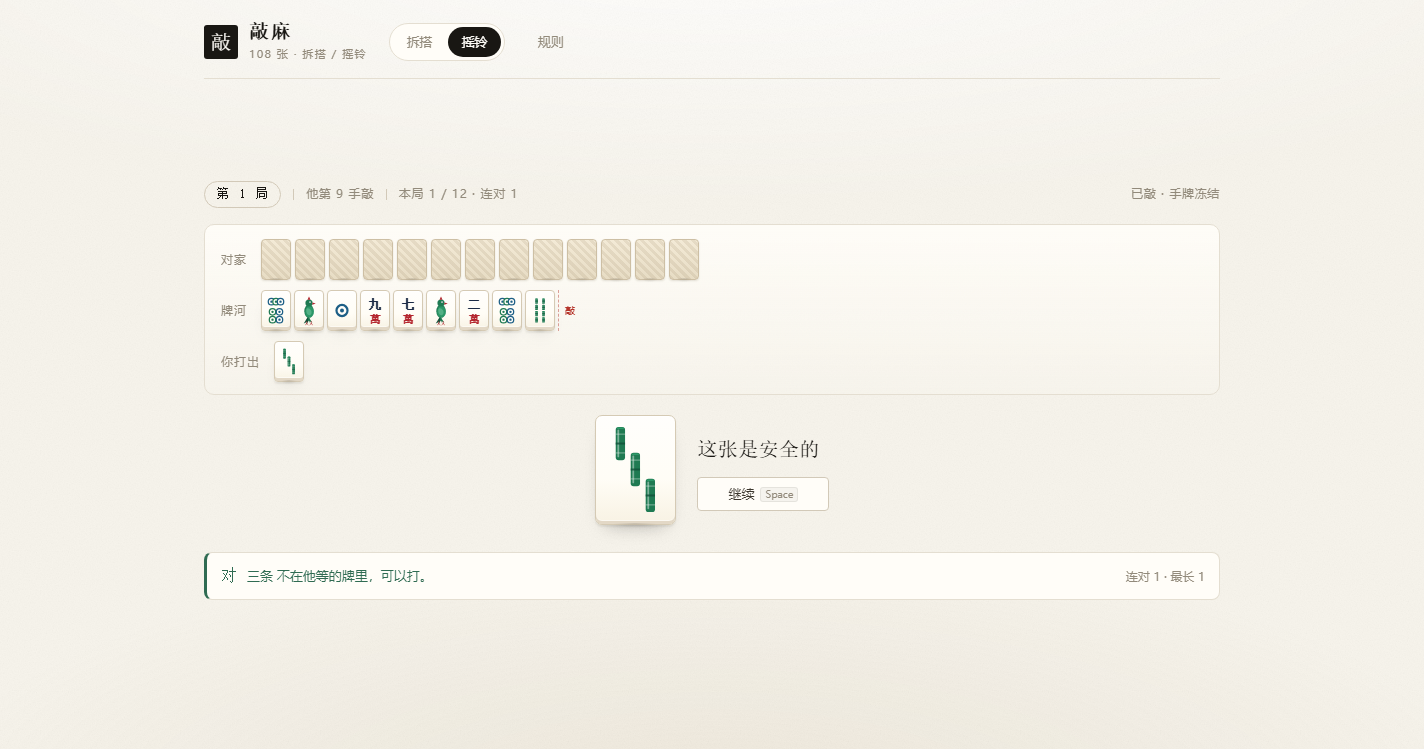
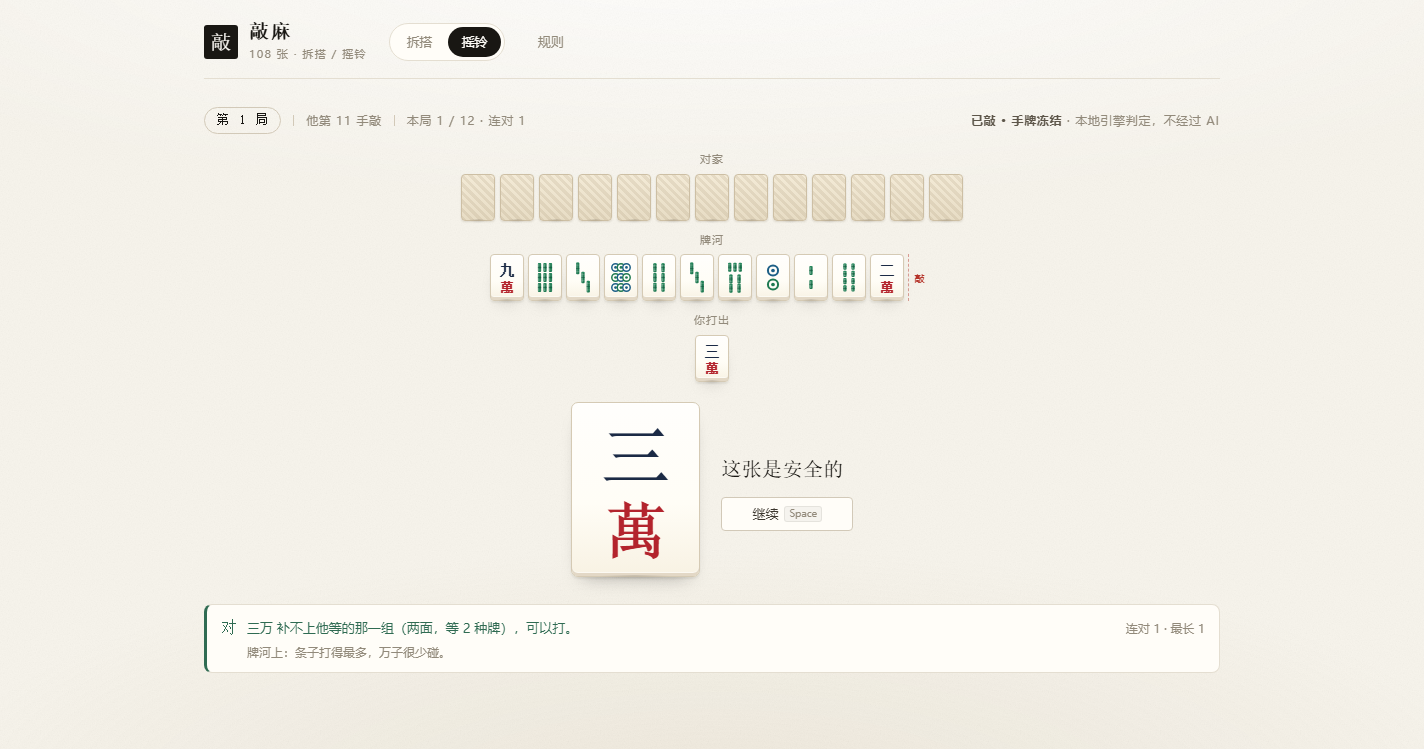
摇铃：每题给出可读的理由（牌河线索 + 他那一组的形），去掉对家面板底色，牌与出张加大居中

diff --git a/public/readmode.js b/public/readmode.js
@@ -24,6 +24,35 @@ function counts(arr) {
   return c;
 }
 
+const SUITS = ['万子', '筒子', '条子'];
+const suitOf = (t) => Math.floor(t / 9);
+
+/**
+ * 从「他的牌河」读线索。hard = 能证明的（現物 / 筋）；soft = 倾向性的（花色分布）。
+ */
+function riverClues(sc, tile) {
+  const seen = counts(sc.discards);
+  const hard = [];
+  const soft = [];
+  if (seen[tile]) hard.push(`他自己打过这张（現物${seen[tile] > 1 ? `×${seen[tile]}` : ''}）`);
+
+  const s = suitOf(tile);
+  const sameSuit = (t) => t >= 0 && t < KINDS && suitOf(t) === s;
+  if (sameSuit(tile - 3) && seen[tile - 3]) hard.push(`${tileName(tile - 3)} 是他的筋`);
+  else if (sameSuit(tile + 3) && seen[tile + 3]) hard.push(`${tileName(tile + 3)} 是他的筋`);
+
+  if (sc.discards.length >= 5 && (seen[tile] || 0) === 0) {
+    const bySuit = [0, 0, 0];
+    for (const t of sc.discards) bySuit[suitOf(t)]++;
+    const mine = bySuit[s];
+    const max = Math.max(...bySuit);
+    if (mine === max && mine >= 3) soft.push(`他打得最多的是${SUITS[s]}（${mine}/${sc.discards.length} 张）`);
+    else if (mine === 0) soft.push(`他一张${SUITS[s]}都没打过`);
+    else if (max >= 5 && mine < max) soft.push(`${SUITS[bySuit.indexOf(max)]}打得最多，${SUITS[s]}很少碰`);
+  }
+  return { hard, soft };
+}
+
 /** 造一局：已敲的对手 + 一串待打的牌（一半危险一半安全） */
 export function makeRound(seed) {
   const sim = simulateRound(seed, MAX_TURNS);
@@ -187,7 +216,9 @@ export function createReadMode(els, { toast } = {}) {
     els.knock.textContent = `他第 ${sc.knockTurn} 手敲`;
     els.rate.textContent = `本局 ${R.qi} / ${MAX_Q} · 连对 ${R.streak}` +
       (R.cleared ? ` · 已逃 ${R.cleared} 局` : '');
-    els.tag.textContent = shown ? `他听 ${sc.waits.map(tileName).join(' / ')}` : '已敲 · 手牌冻结';
+    els.tag.innerHTML = shown
+      ? `<b>他听 ${sc.waits.map(tileName).join(' / ')}</b>`
+      : '<b>已敲 · 手牌冻结</b> · 本地引擎判定，不经过 AI';
 
     let q = '';
     if (R.state === 'question') q = '这张牌打出去，危不危险？';
@@ -212,25 +243,34 @@ export function createReadMode(els, { toast } = {}) {
     const conservative = R.result === 'conservative';
     const waits = sc.waits.map(tileName).join(' / ');
     const q = tileName(R.dealtTile);
+    const clues = riverClues(sc, R.dealtTile);
+    const hardBit = clues.hard.length ? `${clues.hard.join('、')}。` : '';
+
+    // 他剩下那一组是什么形——只知道「形 + 等几种」，不知道具体牌
+    const groups = hisGroups(sc);
+    const waitGrp = groups.find((g) => g.wait);
+    const shapeRaw = waitGrp ? waitGrp.shape : '';
+    const shape = shapeRaw === '孤张' ? '单吊' : shapeRaw === '对子' ? '双碰' : shapeRaw;
+    const k = sc.waits.length;
+    const shapeBit = shape ? `${shape}，等 ${k} 种牌` : '';
 
     let why;
     if (conservative) {
-      why = `这张其实是安全的（不在他等的牌里），你白白扣了一张——没点炮，但连对断了。`;
+      why = `这张其实是安全的（${shapeBit ? `补不上他${shapeBit}` : '不在他的听张里'}）。${hardBit}你白白扣了一张——没点炮，但连对断了。`;
     } else if (R.state === 'over') {
-      const groups = hisGroups(sc);
-      const waitGrp = groups.find((g) => g.wait);
-      const grpName = waitGrp ? waitGrp.tiles.map(tileName).join('') : '';
-      const grpShape = waitGrp ? waitGrp.shape : '';
       why = R.danger
-        ? `他的 <b>${grpName}</b> 是${grpShape}，只等 <b>${waits}</b>；${q} 正好补进这一组。`
-        : `他的 <b>${grpName}</b> 是${grpShape}，只等 <b>${waits}</b>；${q} 补不上任何一组。`;
+        ? `他等的就是 <b>${waits}</b>（${shape}）；${q} 正好补上。${hardBit}`
+        : `他等的就是 <b>${waits}</b>（${shape}）；${q} 补不上。${hardBit}`;
+    } else if (R.danger) {
+      why = `${q} 正好补进他等的${shapeBit ? `那一组（${shapeBit}）` : '那一组'}——这张出去就是炮。${hardBit}`;
     } else {
-      // 进行中不报听张，留给你自己读
-      why = R.danger ? `${q} 确实在他等的牌里，扣下。` : `${q} 不在他等的牌里，可以打。`;
+      why = `${q} 补不上他等的${shapeBit ? `那一组（${shapeBit}）` : '那一组'}，可以打。${hardBit}`;
     }
-    const note = sc.discards.includes(R.dealtTile)
-      ? `顺带：这张他自己打过（現物）——敲麻没有振听，理论上还能等，但实战里几乎不会。`
-      : '';
+    const note = [
+      clues.soft.length ? `牌河上：${clues.soft.join('；')}。` : '',
+      sc.discards.includes(R.dealtTile)
+        ? '注：敲麻没有振听，現物理论上仍可能点炮——只是实战概率极低。' : '',
+    ].filter(Boolean).join(' ');
 
     els.fb.hidden = false;
     els.fb.className = `feedback ${correct ? 'ok' : 'bad'}`;

diff --git a/public/style.css b/public/style.css
@@ -1168,20 +1168,21 @@ kbd {
   display: flex;
   flex-direction: column;
   gap: 10px;
-  padding: 14px 16px 12px;
-  border: 1px solid var(--line);
-  border-radius: 10px;
-  background: linear-gradient(180deg, rgba(255, 253, 248, .9), rgba(247, 244, 236, .6));
+  padding: 0;
+  border: 0;
+  background: none;
+  align-items: center;
 }
-.opp-line { display: flex; align-items: center; gap: 14px; }
-.opp-name { font-size: 12px; color: var(--muted); letter-spacing: .08em; white-space: nowrap; }
-.opp-hand { display: flex; gap: 4px; flex-wrap: wrap; }
+.opp-line { display: flex; flex-direction: column; align-items: center; justify-content: center; gap: 6px; max-width: 100%; }
+.opp-name { font-size: 11px; color: var(--muted); letter-spacing: .1em; white-space: nowrap; flex: 0 0 auto; }
+.opp-hand { display: flex; gap: 5px; flex-wrap: wrap; justify-content: center; }
 .opp-tag { font-size: 11.5px; color: var(--muted); }
+.opp-tag b { font-weight: 600; color: var(--ink-3); }
 .opp-tag.knocked { color: var(--red); font-weight: 600; }
 
 .tile.back {
-  width: 30px;
-  height: 41px;
+  width: 34px;
+  height: 47px;
   border-radius: 4px;
   border: 1px solid #cdbfa4;
   background:
@@ -1190,8 +1191,8 @@ kbd {
   box-shadow: 0 1px 2px rgba(80, 62, 36, .14);
 }
 .tile.sm {
-  width: 30px;
-  height: 41px;
+  width: 34px;
+  height: 47px;
   padding: 2px;
   border-radius: 4px;
 }
@@ -1200,8 +1201,9 @@ kbd {
 .opp-river, .my-river {
   display: flex;
   flex-wrap: wrap;
-  gap: 3px;
-  min-height: 41px;
+  justify-content: center;
+  gap: 4px;
+  min-height: 47px;
   align-items: center;
 }
 .opp-river:empty::before, .my-river:empty::before {
@@ -1210,7 +1212,9 @@ kbd {
   color: var(--muted);
   opacity: .7;
 }
-.my-river { padding: 2px 2px 0; }
+.my-river { padding: 4px 2px 0; }
+.my-river .tile { width: 42px; height: 58px; border-radius: 5px; }
+.my-river .tile svg { padding: 5%; }
 .my-panel { display: flex; flex-direction: column; gap: 10px; }
 .my-panel .hand-wrap { padding: 26px 0 4px; }
 .hand.waiting { opacity: .82; pointer-events: none; }
@@ -1297,7 +1301,28 @@ body.mode-read #replayBtn, body.mode-read #newBtn { display: none; }
 
 .quiz { display: flex; flex-direction: row; align-items: center; justify-content: center; gap: 22px; padding: 4px 0 6px; }
 @media (max-width: 560px) { .quiz { flex-direction: column; gap: 12px; } }
-.quiz-tile .tile { width: calc(var(--tw) * 1.35); height: calc(var(--th) * 1.35); cursor: default; }
+.quiz-tile .tile { width: calc(var(--tw) * 2.15); height: calc(var(--th) * 2.15); cursor: default; }
 .quiz-tile .tile:hover { transform: none; }
 .quiz-side { display: flex; flex-direction: column; gap: 12px; align-items: flex-start; }
 .quiz-q { font-family: var(--serif); font-size: 20px; letter-spacing: .02em; }
+
+@media (max-height: 620px) {
+  .quiz-tile .tile { width: calc(var(--tw) * 1.5); height: calc(var(--th) * 1.5); }
+  .read-area { gap: 10px; }
+  .opp-panel { gap: 6px; }
+  .quiz { gap: 14px; padding: 0; }
+}
+@media (max-height: 460px) {
+  .quiz-tile .tile { width: calc(var(--tw) * 1.05); height: calc(var(--th) * 1.05); }
+  .read-area { gap: 7px; }
+  .opp-name { display: none; }
+  .opp-panel { gap: 4px; }
+  .feedback { padding: 6px 10px; }
+}
+
+@media (max-width: 560px) {
+  .tile.back, .tile.sm { width: 26px; height: 36px; }
+  .my-river .tile { width: 34px; height: 47px; }
+  .opp-hand { gap: 4px; }
+  .opp-river, .my-river { gap: 3px; min-height: 36px; }
+}

diff --git a/public/index.html b/public/index.html
@@ -104,7 +104,7 @@
         <span class="sep"></span>
         <span id="rdRate"></span>
         <span class="flex1"></span>
-        <span class="opp-tag" id="rdTag">已敲 · 手牌冻结</span>
+        <span class="opp-tag" id="rdTag"><b>已敲 · 手牌冻结</b> · 本地引擎判定，不经过 AI</span>
       </div>
 
       <div class="opp-panel">
@@ -180,6 +180,12 @@
       <div class="rule">
         <h3>快捷键</h3>
         <p><kbd>空格</kbd> 新牌局 · <kbd>R</kbd> 重练 · <kbd>Z</kbd> 后退一步 · <kbd>L</kbd> 历史 · <kbd>M</kbd> 错题本 · <kbd>F</kbd> 收藏 · <kbd>G</kbd> 分组开关 · <kbd>V</kbd> 悬停提示开关 · <kbd>H</kbd> 提示 · <kbd>A</kbd> 讲逻辑 · <kbd>Enter</kbd> 就这样打</p>
+      </div>
+      <div class="rule">
+        <h3>摇铃（读牌）</h3>
+        <p>左边切到 <b>摇铃</b>：给你一个<b>已经敲了</b>的对手——他的 13 张扣着，牌河摊开。每次只发一张牌问「打出去危不危险」，答对就继续下一张，答错（而这张正是他的听张）直接点炮、本局结束；答错但其实是安全的，只是白扣一张、连对断，不点炮。撑过 12 张算逃掉。</p>
+        <p>每题都会讲<b>为什么</b>：先看你出的这张能不能补进他那一组（他剩下的一组是什么形、等几种），再看牌河——他打过的同牌（現物）、他的筋、哪一门他丢得最多。<b>全部由本地引擎算</b>（<code>engine.mjs</code> 拆他的牌型、<code>opponent.mjs</code> 模拟他的摸打），<b>不经过 AI</b>，所以是标准答案，不是模型猜的。</p>
+        <p class="dim">局中不报他的具体听张——一报后面的题就开卷了。想知道他到底等哪几张，等本局结束（点炮或逃掉）时会翻开他的 13 张。</p>
       </div>
       <div class="rule">
         <h3>历史</h3>

diff --git a/README.md b/README.md
@@ -52,7 +52,10 @@ node server.mjs
 
 历史存在浏览器 localStorage 里（`qiaoma.history.v1`），一局出过牌就记一次：第几局、出了几张、正确几手、胡没胡；点开就重玩那一副，所以「这副没打好」可以随时回去重拆。错题本存在 `qiaoma.mistakes.v1`（最多 100 手）。
 
-## 摇铃练习（读牌 / 防点炮）
+## 摇铃练习
+
+判定与讲解**全部在本地算**：`engine.mjs` 拆他的牌型（哪一组在等、等什么形、几种牌），`opponent.mjs` 用同一个最优出张器模拟他的摸打直到敲牌。**摇铃模式不调用 AI**——没有网络请求，也就没有「模型猜的」这回事。
+（读牌 / 防点炮）
 
 左上角可以在两种模式之间切：**拆搭**（判断该打哪张）与**摇铃**（判断这张会不会点炮）。
 
